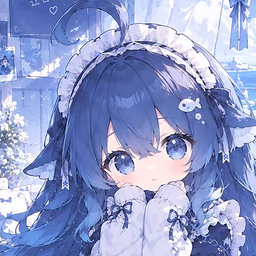
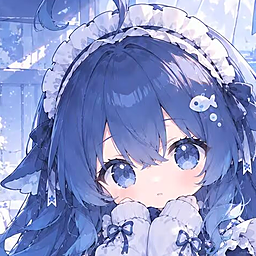
chore: 图标改用更紧的裁切 (v2.2.4)
- 脸部占比提高，64px 缩略图下眼睛清晰可辨
- @icon 保持 gcore 镜像

diff --git a/ai-answer-helper.user.js b/ai-answer-helper.user.js
@@ -1,7 +1,7 @@
 // ==UserScript==
 // @name         AI 答题助手（头歌 / 超星 / 通用）
 // @namespace    ai-answer-helper
-// @version      2.2.3
+// @version      2.2.4
 // @description  抓取网页题目 → 先查题库接口（兼容 OCS / 言溪题库配置，可填多份）→ 未命中的再调任意 OpenAI 兼容 API → 自动填入。平台差异由 adapter 层适配，内置头歌/超星类，其余页面走通用启发式。
 // @icon         https://gcore.jsdelivr.net/gh/wuzhihuijin/touge-answer-helper@main/icon.png
 // @license      MIT
